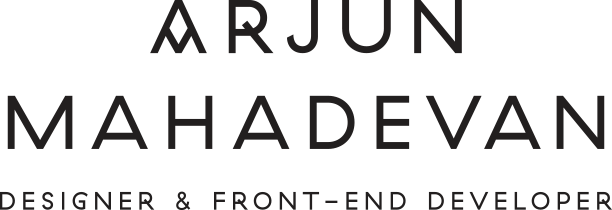
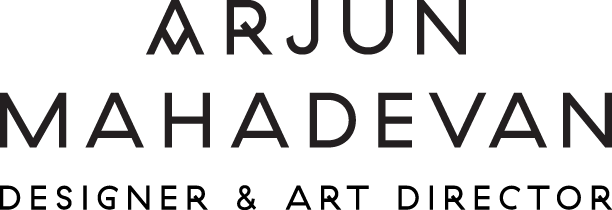
updated meta and bio

diff --git a/about/index.html b/about/index.html
@@ -3,18 +3,18 @@
 	<head>
 		<meta charset="utf-8" />
 		<title>Arjun Mahadevan</title>
-		<meta name="description" content="Designer &amp; front-end web developer, London.">
+		<meta name="description" content="Designer &amp; art director, London.">
 		<meta name="viewport" content="width=device-width,initial-scale=1">
 
 		<meta property="og:url" content="http://arjunmahadevan.com" /> 
 		<meta property="og:type" content="website" /> 
 		<meta property="og:title" content="Arjun Mahadevan" />
-		<meta property="og:description" content="Designer and front-end web developer based in London" /> 
+		<meta property="og:description" content="Designer &amp; art director, London" /> 
 		<meta property="og:image" content="http://arjunmahadevan.com/img/preview.jpg" /> 
 
 		<meta name="twitter:card" content="summary" />
 		<meta name="twitter:title" content="Arjun Mahadevan" />
-		<meta name="twitter:description" content="Designer &amp; front-end web developer, London." />
+		<meta name="twitter:description" content="Designer &amp; art director, London." />
 		<meta name="twitter:image" content="http://arjunmahadevan.com/img/preview.jpg" />
 
 		<link rel="stylesheet" href="../css/reset.css">
@@ -53,7 +53,7 @@
 		<section class="container" id="bio">
 			<div class="row">
 				<div class="twelve columns alpha omega">
-						<p>Arjun Mahadevan is a designer and front-end web developer based in London, currently working as Senior Designer at the Greater London Authority. He has over ten years industry experience working on a diverse range of projects, both agency and client side, with skills in print and digital design, artworking and art direction, user interface design and front-end web development.<br/><br/></p> 
+						<p>Arjun Mahadevan is a designer and art director based in London, currently working as Senior Designer at the Greater London Authority. He has over ten years industry experience working on a diverse range of projects, for a breadth of clients across various sectors, with expertise in print and digital design and art direction, branding, campaign, editorial design, layout, typography, user interface design and front end web development. Creative and conceptual thinking are the basis of his work, developing clear ideas to create relevant and engaging experiences.<br/><br/></p> 
 						<p>If you are interested in working together or would like to discuss a potential project then please email <span class="hyperlink"><a href="mailto:info@arjunmahadevan.com">info@arjunmahadevan.com</a></span>.<br/><br/></p>
 				</div>
 			</div>

diff --git a/work/the-poetry-we-make/index.html b/work/the-poetry-we-make/index.html
@@ -3,18 +3,18 @@
 	<head>
 		<meta charset="utf-8" />
 		<title>Arjun Mahadevan</title>
-		<meta name="description" content="Designer &amp; front-end web developer, London.">
+		<meta name="description" content="Designer &amp; art director, London">
 		<meta name="viewport" content="width=device-width,initial-scale=1">
 
 		<meta property="og:url" content="http://arjunmahadevan.com" /> 
 		<meta property="og:type" content="website" /> 
 		<meta property="og:title" content="Arjun Mahadevan" />
-		<meta property="og:description" content="Designer &amp; front-end web developer, London." /> 
+		<meta property="og:description" content="Designer &amp; art director, London" /> 
 		<meta property="og:image" content="http://arjunmahadevan.com/img/preview.jpg" /> 
 
 		<meta name="twitter:card" content="summary" />
 		<meta name="twitter:title" content="Arjun Mahadevan" />
-		<meta name="twitter:description" content="Designer &amp; front-end web developer, London." />
+		<meta name="twitter:description" content="Designer &amp; art director, London" />
 		<meta name="twitter:image" content="http://arjunmahadevan.com/img/preview.jpg" />
 
 		<link rel="stylesheet" href="../../css/reset.css">

diff --git a/index.html b/index.html
@@ -3,18 +3,18 @@
 	<head>
 		<meta charset="utf-8" />
 		<title>Arjun Mahadevan</title>
-		<meta name="description" content="Designer &amp; front-end web developer, London.">
+		<meta name="description" content="Designer &amp; art director, London.">
 		<meta name="viewport" content="width=device-width,initial-scale=1">
 
 		<meta property="og:url" content="http://arjunmahadevan.com" /> 
 		<meta property="og:type" content="website" /> 
 		<meta property="og:title" content="Arjun Mahadevan" />
-		<meta property="og:description" content="Designer &amp; front-end web developer, London." /> 
+		<meta property="og:description" content="Designer &amp; art director, London." /> 
 		<meta property="og:image" content="http://arjunmahadevan.com/img/preview.jpg" /> 
 
 		<meta name="twitter:card" content="summary" />
 		<meta name="twitter:title" content="Arjun Mahadevan" />
-		<meta name="twitter:description" content="Designer &amp; front-end web developer, London." />
+		<meta name="twitter:description" content="Designer &amp; art director, London." />
 		<meta name="twitter:image" content="http://arjunmahadevan.com/img/preview.jpg" />
 
 		<link rel="stylesheet" href="css/reset.css">

diff --git a/work/africa-ldn/index.html b/work/africa-ldn/index.html
@@ -3,18 +3,18 @@
 	<head>
 		<meta charset="utf-8" />
 		<title>Arjun Mahadevan</title>
-		<meta name="description" content="Designer &amp; front-end web developer, London.">
+		<meta name="description" content="Designer &amp; art director, London">
 		<meta name="viewport" content="width=device-width,initial-scale=1">
 
 		<meta property="og:url" content="http://arjunmahadevan.com" /> 
 		<meta property="og:type" content="website" /> 
 		<meta property="og:title" content="Arjun Mahadevan" />
-		<meta property="og:description" content="Designer &amp; front-end web developer, London." /> 
+		<meta property="og:description" content="Designer &amp; art director, London" /> 
 		<meta property="og:image" content="http://arjunmahadevan.com/img/preview.jpg" /> 
 
 		<meta name="twitter:card" content="summary" />
 		<meta name="twitter:title" content="Arjun Mahadevan" />
-		<meta name="twitter:description" content="Designer &amp; front-end web developer, London." />
+		<meta name="twitter:description" content="Designer &amp; art director, London" />
 		<meta name="twitter:image" content="http://arjunmahadevan.com/img/preview.jpg" />
 
 

diff --git a/work/campaigns-hub/index.html b/work/campaigns-hub/index.html
@@ -3,18 +3,18 @@
 	<head>
 		<meta charset="utf-8" />
 		<title>Arjun Mahadevan</title>
-		<meta name="description" content="Designer &amp; front-end web developer, London.">
+		<meta name="description" content="Designer &amp; art director, London">
 		<meta name="viewport" content="width=device-width,initial-scale=1">
 
 		<meta property="og:url" content="http://arjunmahadevan.com" /> 
 		<meta property="og:type" content="website" /> 
 		<meta property="og:title" content="Arjun Mahadevan" />
-		<meta property="og:description" content="Designer &amp; front-end web developer, London." /> 
+		<meta property="og:description" content="Designer &amp; art director, London" /> 
 		<meta property="og:image" content="http://arjunmahadevan.com/img/preview.jpg" /> 
 
 		<meta name="twitter:card" content="summary" />
 		<meta name="twitter:title" content="Arjun Mahadevan" />
-		<meta name="twitter:description" content="Designer &amp; front-end web developer, London." />
+		<meta name="twitter:description" content="Designer &amp; art director, London" />
 		<meta name="twitter:image" content="http://arjunmahadevan.com/img/preview.jpg" />
 
 

diff --git a/work/cardwall/index.html b/work/cardwall/index.html
@@ -3,18 +3,18 @@
 	<head>
 		<meta charset="utf-8" />
 		<title>Arjun Mahadevan</title>
-		<meta name="description" content="Designer &amp; front-end web developer, London.">
+		<meta name="description" content="Designer &amp; art director, London">
 		<meta name="viewport" content="width=device-width,initial-scale=1">
 
 		<meta property="og:url" content="http://arjunmahadevan.com" /> 
 		<meta property="og:type" content="website" /> 
 		<meta property="og:title" content="Arjun Mahadevan" />
-		<meta property="og:description" content="Designer &amp; front-end web developer, London." /> 
+		<meta property="og:description" content="Designer &amp; art director, London" /> 
 		<meta property="og:image" content="http://arjunmahadevan.com/img/preview.jpg" /> 
 
 		<meta name="twitter:card" content="summary" />
 		<meta name="twitter:title" content="Arjun Mahadevan" />
-		<meta name="twitter:description" content="Designer &amp; front-end web developer, London." />
+		<meta name="twitter:description" content="Designer &amp; art director, London" />
 		<meta name="twitter:image" content="http://arjunmahadevan.com/img/preview.jpg" />
 
 

diff --git a/work/events-for-london/index.html b/work/events-for-london/index.html
@@ -3,18 +3,18 @@
 	<head>
 		<meta charset="utf-8" />
 		<title>Arjun Mahadevan</title>
-		<meta name="description" content="Designer &amp; front-end web developer, London.">
+		<meta name="description" content="Designer &amp; art director, London">
 		<meta name="viewport" content="width=device-width,initial-scale=1">
 
 		<meta property="og:url" content="http://arjunmahadevan.com" /> 
 		<meta property="og:type" content="website" /> 
 		<meta property="og:title" content="Arjun Mahadevan" />
-		<meta property="og:description" content="Designer &amp; front-end web developer, London." /> 
+		<meta property="og:description" content="Designer &amp; art director, London" /> 
 		<meta property="og:image" content="http://arjunmahadevan.com/img/preview.jpg" /> 
 
 		<meta name="twitter:card" content="summary" />
 		<meta name="twitter:title" content="Arjun Mahadevan" />
-		<meta name="twitter:description" content="Designer &amp; front-end web developer, London." />
+		<meta name="twitter:description" content="Designer &amp; art director, London" />
 		<meta name="twitter:image" content="http://arjunmahadevan.com/img/preview.jpg" />
 
 

diff --git a/work/fixfaff/index.html b/work/fixfaff/index.html
@@ -3,18 +3,18 @@
 	<head>
 		<meta charset="utf-8" />
 		<title>Arjun Mahadevan</title>
-		<meta name="description" content="Designer &amp; front-end web developer, London.">
+		<meta name="description" content="Designer &amp; art director, London">
 		<meta name="viewport" content="width=device-width,initial-scale=1">
 
 		<meta property="og:url" content="http://arjunmahadevan.com" /> 
 		<meta property="og:type" content="website" /> 
 		<meta property="og:title" content="Arjun Mahadevan" />
-		<meta property="og:description" content="Designer &amp; front-end web developer, London." /> 
+		<meta property="og:description" content="Designer &amp; art director, London" /> 
 		<meta property="og:image" content="http://arjunmahadevan.com/img/preview.jpg" /> 
 
 		<meta name="twitter:card" content="summary" />
 		<meta name="twitter:title" content="Arjun Mahadevan" />
-		<meta name="twitter:description" content="Designer &amp; front-end web developer, London." />
+		<meta name="twitter:description" content="Designer &amp; art director, London" />
 		<meta name="twitter:image" content="http://arjunmahadevan.com/img/preview.jpg" />
 
 

diff --git a/work/forward3d/index.html b/work/forward3d/index.html
@@ -3,18 +3,18 @@
 	<head>
 		<meta charset="utf-8" />
 		<title>Arjun Mahadevan</title>
-		<meta name="description" content="Designer &amp; front-end web developer, London.">
+		<meta name="description" content="Designer &amp; art director, London">
 		<meta name="viewport" content="width=device-width,initial-scale=1">
 
 		<meta property="og:url" content="http://arjunmahadevan.com" /> 
 		<meta property="og:type" content="website" /> 
 		<meta property="og:title" content="Arjun Mahadevan" />
-		<meta property="og:description" content="Designer &amp; front-end web developer, London." /> 
+		<meta property="og:description" content="Designer &amp; art director, London" /> 
 		<meta property="og:image" content="http://arjunmahadevan.com/img/preview.jpg" /> 
 
 		<meta name="twitter:card" content="summary" />
 		<meta name="twitter:title" content="Arjun Mahadevan" />
-		<meta name="twitter:description" content="Designer &amp; front-end web developer, London." />
+		<meta name="twitter:description" content="Designer &amp; art director, London" />
 		<meta name="twitter:image" content="http://arjunmahadevan.com/img/preview.jpg" />
 
 

diff --git a/work/kalash-co/index.html b/work/kalash-co/index.html
@@ -3,18 +3,18 @@
 	<head>
 		<meta charset="utf-8" />
 		<title>Arjun Mahadevan</title>
-		<meta name="description" content="Designer &amp; front-end web developer, London.">
+		<meta name="description" content="Designer &amp; art director, London">
 		<meta name="viewport" content="width=device-width,initial-scale=1">
 
 		<meta property="og:url" content="http://arjunmahadevan.com" /> 
 		<meta property="og:type" content="website" /> 
 		<meta property="og:title" content="Arjun Mahadevan" />
-		<meta property="og:description" content="Designer &amp; front-end web developer, London." /> 
+		<meta property="og:description" content="Designer &amp; art director, London" /> 
 		<meta property="og:image" content="http://arjunmahadevan.com/img/preview.jpg" /> 
 
 		<meta name="twitter:card" content="summary" />
 		<meta name="twitter:title" content="Arjun Mahadevan" />
-		<meta name="twitter:description" content="Designer &amp; front-end web developer, London." />
+		<meta name="twitter:description" content="Designer &amp; art director, London" />
 		<meta name="twitter:image" content="http://arjunmahadevan.com/img/preview.jpg" />
 
 

diff --git a/work/london-is-open/index.html b/work/london-is-open/index.html
@@ -3,18 +3,18 @@
 	<head>
 		<meta charset="utf-8" />
 		<title>Arjun Mahadevan</title>
-		<meta name="description" content="Designer &amp; front-end web developer, London.">
+		<meta name="description" content="Designer &amp; art director, London">
 		<meta name="viewport" content="width=device-width,initial-scale=1">
 
 		<meta property="og:url" content="http://arjunmahadevan.com" /> 
 		<meta property="og:type" content="website" /> 
 		<meta property="og:title" content="Arjun Mahadevan" />
-		<meta property="og:description" content="Designer &amp; front-end web developer, London." /> 
+		<meta property="og:description" content="Designer &amp; art director, London" /> 
 		<meta property="og:image" content="http://arjunmahadevan.com/img/preview.jpg" /> 
 
 		<meta name="twitter:card" content="summary" />
 		<meta name="twitter:title" content="Arjun Mahadevan" />
-		<meta name="twitter:description" content="Designer &amp; front-end web developer, London." />
+		<meta name="twitter:description" content="Designer &amp; art director, London" />
 		<meta name="twitter:image" content="http://arjunmahadevan.com/img/preview.jpg" />
 
 

diff --git a/work/louis-leeson/index.html b/work/louis-leeson/index.html
@@ -3,18 +3,18 @@
 	<head>
 		<meta charset="utf-8" />
 		<title>Arjun Mahadevan</title>
-		<meta name="description" content="Designer &amp; front-end web developer, London.">
+		<meta name="description" content="Designer &amp; art director, London">
 		<meta name="viewport" content="width=device-width,initial-scale=1">
 
 		<meta property="og:url" content="http://arjunmahadevan.com" /> 
 		<meta property="og:type" content="website" /> 
 		<meta property="og:title" content="Arjun Mahadevan" />
-		<meta property="og:description" content="Designer &amp; front-end web developer, London." /> 
+		<meta property="og:description" content="Designer &amp; art director, London" /> 
 		<meta property="og:image" content="http://arjunmahadevan.com/img/preview.jpg" /> 
 
 		<meta name="twitter:card" content="summary" />
 		<meta name="twitter:title" content="Arjun Mahadevan" />
-		<meta name="twitter:description" content="Designer &amp; front-end web developer, London." />
+		<meta name="twitter:description" content="Designer &amp; art director, London" />
 		<meta name="twitter:image" content="http://arjunmahadevan.com/img/preview.jpg" />
 
 
